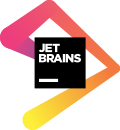
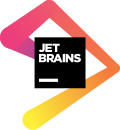
Use jetbrains.svg instead of jetbrains.png

diff --git a/content/pages/libraries/index.md b/content/pages/libraries/index.md
@@ -5,7 +5,7 @@ type: page
 
 This page groups the pages created for my libraries:
 
-* [JSON Resume Markdown Theme][jsonresume-theme-md]:
+* [JSON Resume Markdown Theme][jsonresume-theme-md]
 * [JSON Resume Print Flexbox Theme][jsonresume-theme-print-flexbox]
 
 [jsonresume-theme-md]: /libraries/jsonresume-theme-md

diff --git a/content/pages/my-reads/details/index.md b/content/pages/my-reads/details/index.md
@@ -61,5 +61,5 @@ type: page
 [help-png]: ./help.png
 [info-png]: ./info.png
 [lock-png]: ./lock.png
-[jetbrains-png]: ./jetbrains.png
+[jetbrains-png]: ./jetbrains.svg
 [jetbrains-my-reads]: https://www.jetbrains.com/?from=MyReads
